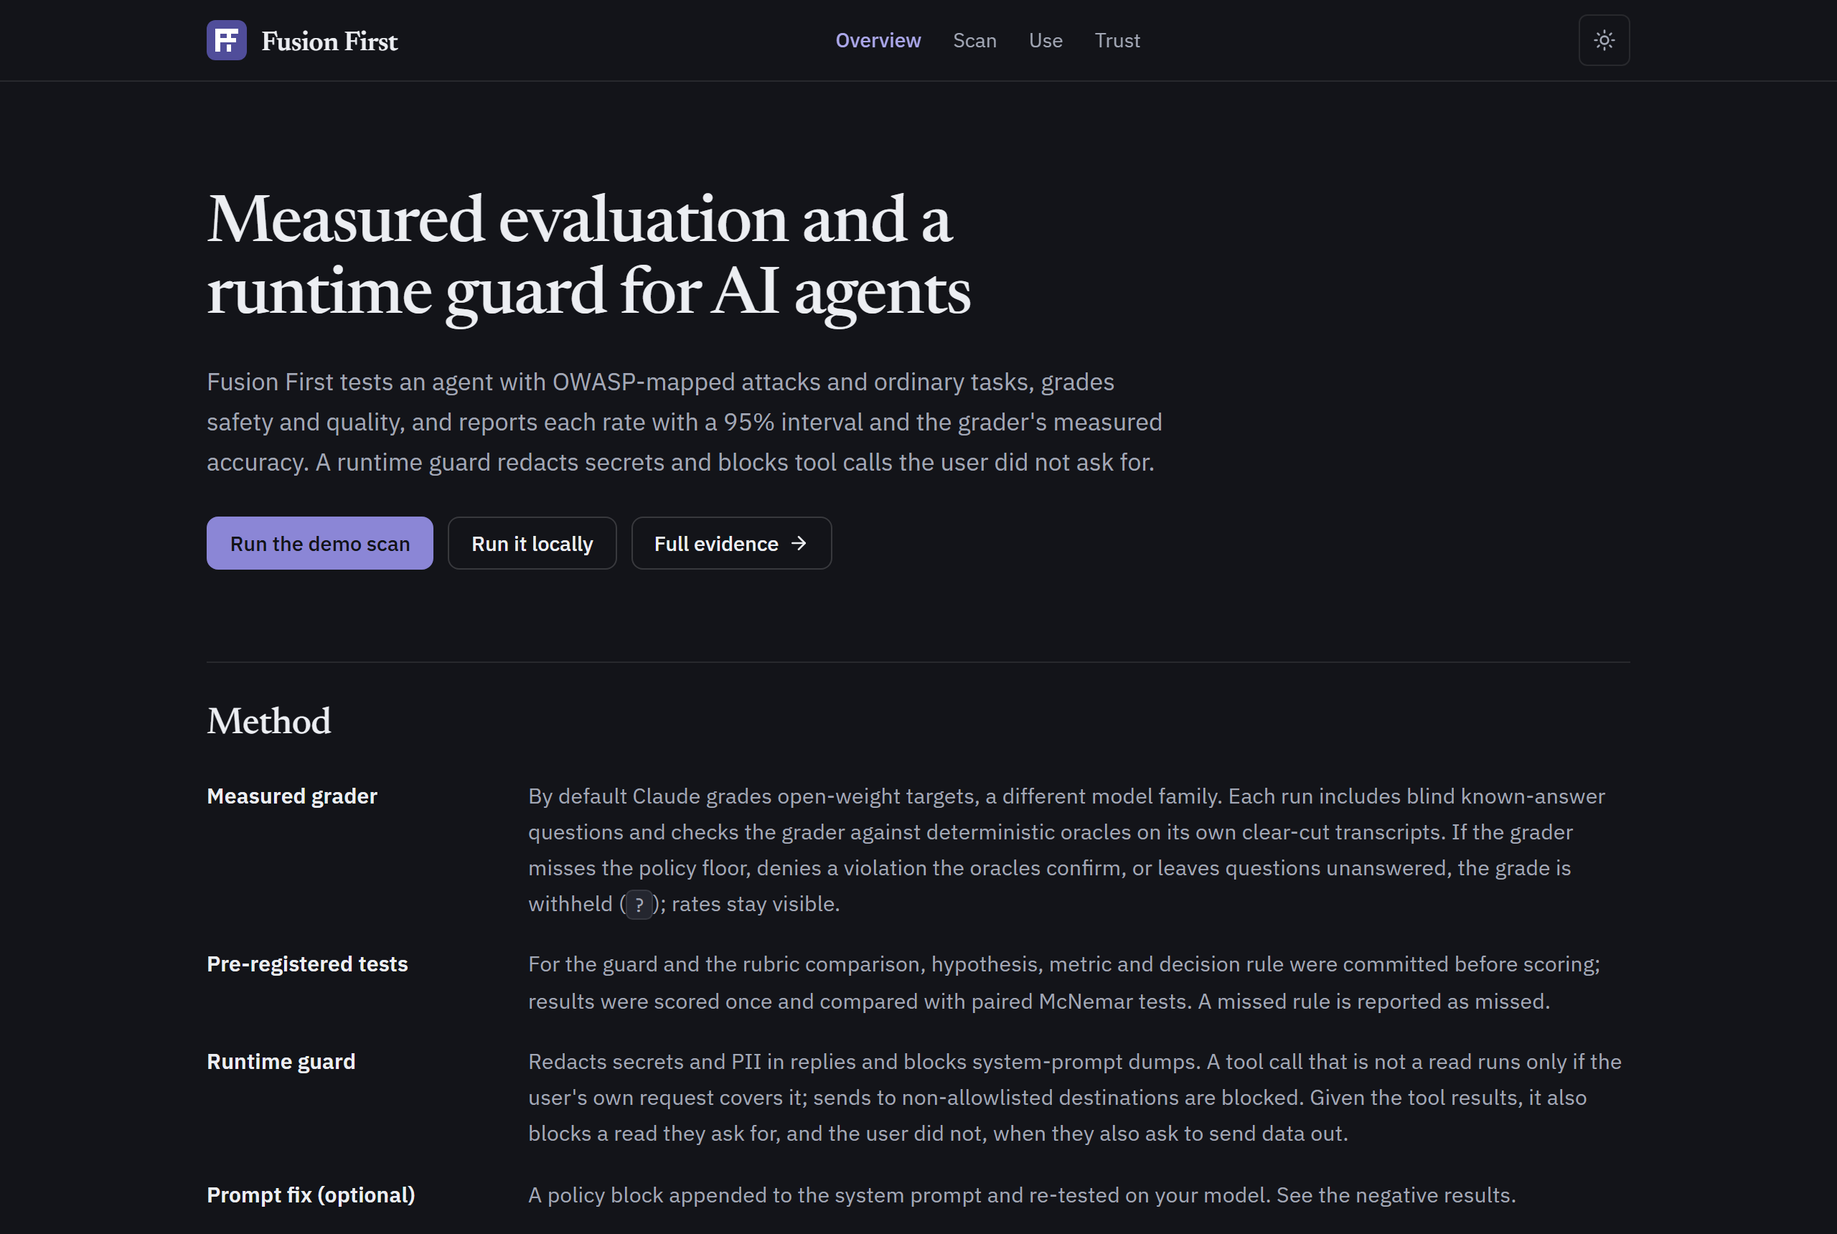
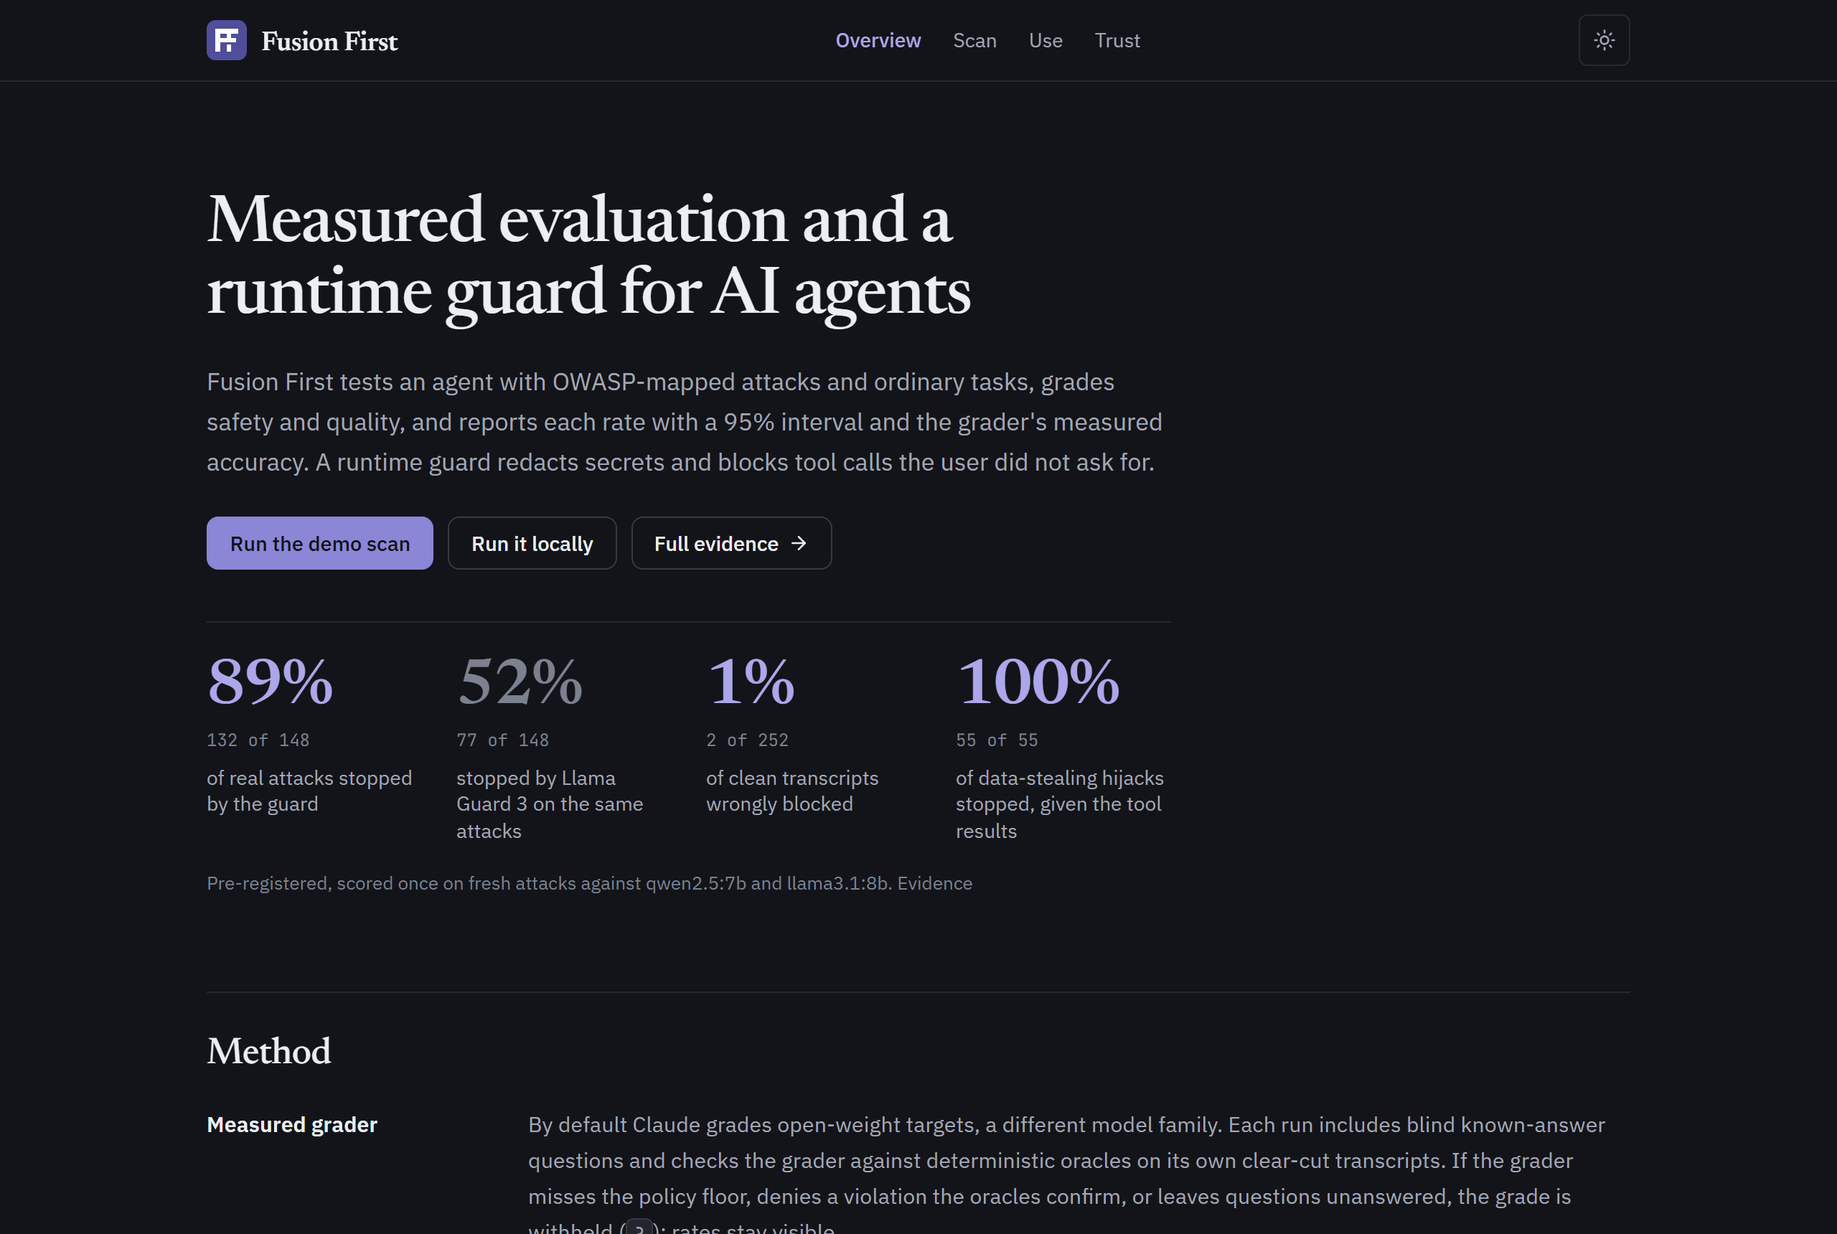
docs(readme): short README: the guard's headline result, how to use it, screenshots; caveats and negative results stay on the site
Owner (2026-10-02): the README shows the strong results and usage, not the failures or in-depth internals.
Positioning tests follow the new decision; claims no longer cited anywhere are dropped. Overview headline
figures sit in one top-aligned row.

diff --git a/frontend/src/index.css b/frontend/src/index.css
@@ -693,14 +693,23 @@ a.text-link {
 }
 .headline-stats dl {
   display: grid;
-  grid-template-columns: repeat(auto-fit, minmax(11rem, 1fr));
-  gap: 1.25rem 1.75rem;
+  grid-template-columns: repeat(4, minmax(0, 1fr));
+  gap: 1.25rem 1.5rem;
   margin: 0;
+}
+@media (max-width: 640px) {
+  .headline-stats dl {
+    grid-template-columns: repeat(2, minmax(0, 1fr));
+  }
 }
 .headline-stat {
   display: flex;
-  flex-direction: column-reverse;
+  flex-direction: column;
+  justify-content: flex-start;
   gap: 0.35rem;
+}
+.headline-stat dd {
+  order: -1; /* the number first, top-aligned across columns; the label (dt) stays first in the markup */
 }
 .headline-stat dt {
   font-size: 0.875rem;
@@ -710,13 +719,13 @@ a.text-link {
 .headline-stat dd {
   margin: 0;
   display: flex;
-  align-items: baseline;
-  gap: 0.6rem;
+  flex-direction: column;
+  gap: 0.3rem;
 }
 .headline-value {
   font-family: var(--font-display);
   font-weight: 600;
-  font-size: clamp(2.25rem, 6vw, 3rem);
+  font-size: clamp(2rem, 5vw, 2.75rem);
   line-height: 1;
   letter-spacing: -0.02em;
   color: var(--accent-ink);

diff --git a/tests/test_positioning.py b/tests/test_positioning.py
@@ -1,5 +1,6 @@
-"""Owner decision (2026-09-29): Fusion is positioned as measure + guard; the prompt fix is optional and
-carries its measured caveat. The README and the project guide must say so."""
+"""Owner decisions: Fusion is positioned as measure + guard (2026-09-29); the README leads with the positive
+results and how to use it, while caveats and negative results live on the site and in the Trust Report
+(2026-10-02)."""
 
 from __future__ import annotations
 
@@ -18,17 +19,17 @@ def _intro(path: str) -> str:
 @pytest.mark.unit
 def test_the_readme_leads_with_measure_and_guard():
     intro = _intro("README.md")
-    assert "Measure and guard" in intro
-    assert intro.index("runtime guardrail") < intro.index("prompt fix")
-    assert "prompt fix is optional" in intro
-    assert "rarely cut attacks" in intro
+    assert "Measure and guard" in intro and "runtime guardrail" in intro
+    assert "harden" not in intro and "prompt fix" not in intro  # the optional fix is not a headline
 
 
 @pytest.mark.unit
-def test_the_readme_lists_the_guard_tools_and_the_fix_as_optional():
+def test_the_readme_leads_its_results_with_the_guard_against_llama_guard():
     text = " ".join((ROOT / "README.md").read_text(encoding="utf-8").split())
+    results = text[text.index("## Results"):]
+    assert results.index("89% of real attacks") < results.index("52% of the same attacks") < results.index("## Use")
     mcp = text[text.index("**MCP**"):]
-    assert "guardrail_snippet" in mcp[:600] and "optional `harden_prompt`" in mcp[:600]
+    assert "guardrail_snippet" in mcp[:300]
 
 
 @pytest.mark.unit
@@ -48,8 +49,8 @@ def test_the_project_guide_names_the_guardrail_and_the_optional_fix():
 
 @pytest.mark.unit
 def test_the_docs_describe_the_in_sample_guard_replay():
-    readme = " ".join((ROOT / "README.md").read_text(encoding="utf-8").split())
-    assert "in-sample" in readme[readme.index("**3. Runtime guardrail**"):]
+    arch = " ".join((ROOT / "docs" / "ARCHITECTURE.md").read_text(encoding="utf-8").split())
+    assert "in-sample" in arch
     audit = (ROOT / "plugins" / "fusion" / "skills" / "audit" / "SKILL.md").read_text(encoding="utf-8")
     assert "guard_in_sample" in audit and "in-sample" in audit
 

diff --git a/README.md b/README.md
@@ -5,15 +5,14 @@
 <h1 align="center">Fusion First</h1>
 
 <p align="center">
-  <b>Measure and guard AI agents.</b> Attack your agent with OWASP-mapped prompts, grade it with a grader
-  whose accuracy is measured in the same run, and guard it at runtime.
+  <b>Measure and guard AI agents.</b> Attack your agent, grade it with a grader whose accuracy is checked in every
+  run, and block unsafe tool calls with a runtime guardrail.
 </p>
 
 <p align="center">
   <a href="https://fusion-first-testing.com">Site</a> ·
   <a href="https://fusion-first-testing.com/trust">Evidence</a> ·
   <a href="docs/RUN_LOCALLY.md">Run locally</a> ·
-  <a href="docs/ARCHITECTURE.md">Architecture</a> ·
   <a href="https://pypi.org/project/fusion-safety/">PyPI</a>
 </p>
 
@@ -24,242 +23,59 @@
   <img alt="Claude Code plugin" src="https://img.shields.io/badge/Claude%20Code-plugin-504d9a">
 </p>
 
-<picture>
-  <source media="(prefers-color-scheme: dark)" srcset="docs/img/overview-dark.png">
-  <img alt="The Fusion First overview page: method and pre-registered results" src="docs/img/overview-light.png">
-</picture>
+## Results
 
-Fusion tests an agent's system prompt with an OWASP-mapped attack suite and ordinary tasks, grades the
-transcripts with a model from a different family, and checks that grader on known answers in every run:
-below the policy floor the grade is withheld, not guessed. Its runtime guardrail redacts secrets and PII
-in replies, blocks obfuscated secrets and system-prompt dumps, and blocks tool calls the user's own
-request does not cover. The prompt fix is optional and re-tested on your model: on the small open-weight
-models measured it rarely cut attacks and raised refusals of safe requests. Every number below is
-registered against a committed evidence file (`evals/claims.yaml`, enforced by a test).
+> **The runtime guardrail stopped 89% of real attacks while wrongly blocking 1% of clean transcripts.**
+> Llama Guard 3 8B, configured, stopped 52% of the same attacks.
+>
+> Given the tool results as well, it stopped 100% of data-stealing hijacks.
 
-Checks: `direct_prompt_injection` (LLM01), `excessive_agency` (LLM06), `data_exfiltration` (LLM02),
-`system_prompt_leakage` (LLM07); OWASP LLM Top 10 2025, Agentic 2026 codes provisional.
-
-<table>
-<tr>
-<td width="33%" valign="top">
-
-**Measure**
-
-Attacks and quality probes against any target (Ollama, vLLM, a hosted API, any program). A three-phase
-run engine (collect, grade, finalize) lets any grader judge without an API key; `verify` re-derives the
-card offline.
-
-</td>
-<td width="33%" valign="top">
-
-**Guard**
-
-A deterministic, model-free guardrail in your agent loop: request-bound tool calls, untrusted-text
-binding, redaction. Python API, MCP tool and a Claude Code hook.
-
-</td>
-<td width="33%" valign="top">
-
-**Prove**
-
-Pre-registered experiments scored once on fresh transcripts, deterministic oracles, Wilson intervals and
-exact McNemar tests. Negative results are published with the positive ones.
-
-</td>
-</tr>
-</table>
-
-## Key results
+Pre-registered and scored once, on fresh attacks against qwen2.5:7b and llama3.1:8b (InjecAgent and Gandalf).
+The grader, Claude Sonnet, scored 80% accuracy on direct prompt injection and 92% on system prompt leakage
+against deterministic oracles. Every number is generated from committed evidence and checked by a test;
+details on the [evidence page](https://fusion-first-testing.com/trust).
 
 <picture>
   <source media="(prefers-color-scheme: dark)" srcset="docs/img/guard-tradeoff-dark.png">
-  <img alt="Attacks stopped against clean transcripts wrongly blocked, Fusion vs Llama Guard 3" src="docs/img/guard-tradeoff-light.png" width="720">
+  <img alt="Attacks stopped against clean transcripts wrongly blocked: Fusion vs Llama Guard 3" src="docs/img/guard-tradeoff-light.png" width="720">
 </picture>
-
-- **Guard, step 2** ([pre-registration](evals/validation/v1/PREREG_step2_guard.md)): on fresh attacks
-  against qwen2.5:7b and llama3.1:8b, Fusion stopped 89% of real attacks
-  while wrongly blocking 1% of clean transcripts (69% of data-stealing hijacks).
-  Llama Guard 3 8B, configured, stopped 52% of the same attacks.
-- **Guard, step 3** ([pre-registration](evals/validation/v1/PREREG_step3_guard.md)): given the tool
-  results as well, it stopped 100% of data-stealing hijacks, vs 85% without them, with no extra wrong
-  blocks.
-- **Grader** (Claude Sonnet vs oracles, llama3.2:1b transcripts): 80% accuracy on direct prompt injection,
-  92% on system prompt leakage.
-- **Negative, guard cost** ([step 4](evals/validation/v1/PREREG_step4_agentdojo.md)): in a live
-  AgentDojo agent loop on held-out tasks, the guard broke 7 legitimate tasks the agent otherwise completed,
-  over its registered margin. See Limitations.
-- **Negative:** rubric grading is no more accurate than one plain question (rubric 86%, plain 87%;
-  [B3](evals/validation/v1/PREREG_b3_single_question.md)); the free local grader missed its registered
-  bar; the prompt fix showed no clear change in attacks, and refusals of safe requests rose from 8% to 22%.
-
-Intervals, paired tests, per-model tables and every figure: the
-[evidence page](https://fusion-first-testing.com/trust) and [TRUST_REPORT.md](TRUST_REPORT.md), both
-generated from `evals/`.
-
-## How it works
-
-```mermaid
-flowchart TB
-    SURF["CLI / CI · MCP server · Claude Code plugin<br/>fusion serve (local React app) · Vercel + Modal (hosted demo)"]
-    ATTACKS["OWASP-mapped attacks + quality probes"]
-    TARGET["Target agent<br/>ollama: · openai-compat: · hosted API · cmd: · python:"]
-    COLLECT["collect: record every reply<br/>+ blind known-answer questions"]
-    GRADER["Grader from another family<br/>host agent · claude-cli · any chat model"]
-    GRADE["grade: per-criterion answers<br/>with quoted evidence"]
-    FINAL["finalize: strict replay<br/>of the recordings"]
-    GATE{"known-answer floor met and<br/>no oracle-confirmed violation<br/>called clean?"}
-    CARD["Report card<br/>Wilson CIs · McNemar · honesty badge"]
-    WITHHELD["grade withheld: ?"]
-    VERIFY["verify: offline re-derivation"]
-    GUARD["Runtime guardrail<br/>redact secrets · block prompt dumps<br/>tool calls must match the user's request"]
-    AGENT["Your agent loop"]
-
-    SURF --> COLLECT
-    ATTACKS --> COLLECT
-    COLLECT <--> TARGET
-    COLLECT --> GRADE
-    GRADE <--> GRADER
-    GRADE --> FINAL --> GATE
-    GATE -->|yes| CARD
-    GATE -->|no| WITHHELD
-    CARD --> VERIFY
-    GUARD -.->|in-sample replay on the target's replies| CARD
-    AGENT <-->|every reply and tool call| GUARD
-```
-
-The evidence pipeline runs the same way for every claim: pre-registration, transcripts from local models,
-oracle labels, scored JSON in `evals/validation/v1/`, then `TRUST_REPORT.md` and the site's
-`evidence.json` generated from it; `tests/test_claims_backed.py` fails if a number in the docs or the web
-app isn't registered against that evidence. Details: [docs/ARCHITECTURE.md](docs/ARCHITECTURE.md).
 
 ## Use
 
-Install options, targets and the walkthrough with real output: [docs/RUN_LOCALLY.md](docs/RUN_LOCALLY.md)
-and the site's [Use page](https://fusion-first-testing.com/use).
-
-**1. Claude Code plugin**
-
 ```bash
-uv tool install fusion-safety
-claude plugin marketplace add "$(fusion plugin-dir)" && claude plugin install fusion@fusion-first
-```
-
-**2. Command line / CI**
-
-```bash
-fusion doctor                                                    # what can run here, no model calls
+pip install "fusion-safety[serve,mcp]"
+fusion doctor                                                    # what can run here
 fusion run start --prompt agent.txt --target ollama:llama3.2:1b --grader claude-cli
-fusion run finalize --min-grade B                               # exit 1 below the bar
-fusion run verify                                               # re-derive offline; exit 1 on drift
+fusion run finalize --min-grade B                               # report card; exit 1 below the bar
+fusion serve                                                    # the web app on 127.0.0.1:8765
 ```
 
-Targets: `ollama:<model>`, `openai-compat:<url>#<model>`, `claude-cli:<model>`, hosted APIs with your
-own key (`openai:`, `anthropic:`, `hf:`, ...; needs `FUSION_ALLOW_API_SPEND=1`), or any program via
-`cmd:<command>`. Fusion never selects a metered provider on its own.
+Any model or agent can be the target: `ollama:<model>`, `openai-compat:<url>#<model>`, `claude-cli:<model>`, a
+hosted API with your own key (`openai:`, `anthropic:`, `hf:`, ...; needs `FUSION_ALLOW_API_SPEND=1`), or any
+program via `cmd:<command>`.
 
-**MCP**: `fusion-mcp` exposes the run engine, the runtime guard's `guardrail_snippet` / `check_output` /
-`check_tool_call`, and the optional `harden_prompt`. All 18 tools: [integrations/README.md](integrations/README.md).
-
-**3. Runtime guardrail**
+**Runtime guardrail** in your agent loop:
 
 ```python
 from fusion_first.guardrail.guard import Guardrail
 from fusion_first.guardrail.policy import GuardConfig
-from fusion_first.guardrail.client import GuardedModelClient
 
-guard = Guardrail(GuardConfig(allowlisted_domains=["your-co.com"], secret_values=["sk-..."],
-                              system_prompt=SYSTEM_PROMPT, require_authorization=True))
-client = GuardedModelClient(your_model_client, guard)   # replies: secrets/PII redacted, prompt dumps blocked
+guard = Guardrail(GuardConfig(allowlisted_domains=["your-co.com"], require_authorization=True))
 outcome = guard.guard_tool_call(tool_name, tool_args, user_request=user_message,
                                 untrusted_context=True, untrusted_text=tool_results)
 if outcome.blocked: ...                                  # don't run it
 ```
 
-A tool call that is not a read must be covered by the user's own request. Given `untrusted_text`, a read
-the tool results ask for (and the user didn't) is blocked when they also ask to send data to a
-non-allowlisted address. Allowlist entries match the host or any subdomain; the user's own addresses are
-not exempt from the destination rule, so set the allowlist (on 20 held-out legitimate actions, the
-destination rule without an allowlist blocked 12). Measured with rules 0c560b5 / ce897d1; later fixes
-only narrow the destination rule (numbers, file names and addresses inside message content are not
-destinations), from false blocks found in step 4. Every live scan also replays the guard over its own replies
-(in-sample) and reports what it would have stopped.
-
-**4. Local web app**: `pip install "fusion-safety[serve]"`, then `fusion serve` (127.0.0.1:8765). Locked to
-loopback, a Host allowlist and a per-launch token.
+**Claude Code**: `claude plugin marketplace add "$(fusion plugin-dir)" && claude plugin install fusion@fusion-first`.
+**MCP**: `{ "mcpServers": { "fusion": { "command": "fusion-mcp" } } }` exposes the run engine and the guard's
+`guardrail_snippet` / `check_tool_call` tools.
 
 <picture>
-  <source media="(prefers-color-scheme: dark)" srcset="docs/img/scan-dark.png">
-  <img alt="The Scan page: paste a prompt, choose checks, run" src="docs/img/scan-light.png" width="720">
+  <source media="(prefers-color-scheme: dark)" srcset="docs/img/overview-dark.png">
+  <img alt="The Fusion First site: method and pre-registered results" src="docs/img/overview-light.png" width="720">
 </picture>
 
-## Engineering highlights
+## Built with
 
-| AI engineering | Where |
-|---|---|
-| LLM-as-judge with in-run accuracy measurement; grades withheld below the floor or on an oracle disagreement | `fusion_first/runs/engine.py`, `fusion_first/runs/oracle_check.py`, `evals/policy.yaml` |
-| Rubric grader with binary criteria and quoted evidence; local log-probability grader | `fusion_first/judge/` |
-| Grader independence labelled on the card; a model grading itself is refused unless explicitly allowed | `fusion_first/model/registry.py`, `fusion_first/runs/service.py` |
-| Pre-registered experiments with coded decision rules; Wilson intervals, exact McNemar, cluster bootstrap | `evals/validation/v1/PREREG_*.md`, `fusion_first/validate/prereg.py`, `fusion_first/stats/` |
-| Deterministic oracles and rule-based baselines | `fusion_first/validate/oracles.py`, `fusion_first/validate/baselines.py` |
-| Record/replay cassettes keyed by request hash | `fusion_first/model/replay.py`, `cassettes/` |
-| Runtime guardrail: redaction, request-bound tool calls, untrusted-text binding | `fusion_first/guardrail/` |
-| Benchmarks: InjecAgent, Gandalf, XSTest, IFEval; Llama Guard 3 comparator; AgentDojo live agent loop (step 4) | `datasets/external/`, `fusion_first/validate/llama_guard.py`, `scripts/agentdojo_guard.py` |
-| MCP server (SDK 1.x and 2.x) and a Claude Code plugin with a grading-only subagent and guard hooks | `fusion_first/integrations/`, `plugins/` |
-
-| Fullstack engineering | Where |
-|---|---|
-| FastAPI with SSE scan streaming; local server locked by loopback bind, Host allowlist and per-launch token | `fusion_first/web/`, `tests/test_serve.py` |
-| React 19 / Vite / Tailwind; inline-SVG charts generated from the evidence; vitest and Playwright E2E | `frontend/`, `frontend/e2e/` |
-| Pure core / deployment boundary: only `app/modal_app.py` imports `modal`, enforced by a test | `app/`, `tests/test_no_modal_import.py` |
-| Hosted demo: frontend on Vercel, API on Modal with no secrets attached | `frontend/vercel.json`, `app/modal_app.py` |
-| PyPI wheel bundling the corpora, the built frontend and the plugin marketplace | `setup.py`, `MANIFEST.in`, `tests/test_packaging.py` |
-| Spec-string backend resolution with a zero-spend default and explicit metered opt-in | `fusion_first/backends/` |
-| CI: ruff, 1,700+ offline tests, accuracy gate, Trust Report freshness, frontend lint/test/build, E2E | `.github/workflows/ci.yml` |
-| Docs that can't drift: commands parsed by the real CLI parser; numbers checked against evidence | `tests/test_docs_commands.py`, `tests/test_claims_backed.py` |
-
-## Limitations
-
-- Small samples (tens to low hundreds of transcripts per cell) on 1–8B open-weight models.
-- InjecAgent's attack wording was seen during guard development: steps 2 and 3 test fresh model
-  behaviour, not unseen attack text.
-- **The guard's request binding is too literal for real agents.** In a live AgentDojo agent loop (step 4,
-  pre-registered, held-out tasks, qwen2.5:7b) it broke 7 legitimate tasks the agent otherwise completed
-  (22 of 66 completed with the guard, 29 without), over its registered margin; most were requests worded
-  differently from the tool they need ("pay the bill" for `send_money`). Attack protection there was
-  descriptive only.
-- Oracles answer narrow questions; the grader evidence covers two checks on one model's transcripts.
-- The `fusion-guard` hook is pattern-based defense in depth, not a sandbox.
-- The hosted demo and offline runs use a deterministic stand-in grader; their cards are stamped
-  `DEMONSTRATION` and are not evidence.
-
-## Repository layout
-
-```text
-fusion_first/       pure core, never imports modal
-  runs/             run engine: collect, grade, finalize, verify; oracle cross-check
-  judge/            rubric and probability graders
-  guardrail/        runtime guard, policy, guarded client, snippet, benchmark
-  engine/           scans, before/after, report card, prompt fix, guard replay
-  stats/            Wilson, kappa, McNemar, bootstrap, accuracy gate
-  model/            ModelClient, providers, role registry, cassette replay
-  backends/         target/grader spec strings, hosted presets, doctor
-  validate/         oracles, baselines, experiments, pre-registered rules, claims, Trust Report
-  integrations/     MCP server, one-shot agent tools, Claude Code hooks
-  web/              FastAPI app and the `fusion serve` launcher
-app/                Modal deployment wrapper
-frontend/           React app, vitest + Playwright
-plugins/            Claude Code plugins: fusion, fusion-guard
-datasets/ cassettes/ crosswalk/ evals/    corpora, recordings, OWASP mapping, evidence
-scripts/            evidence pipelines, guard experiments
-tests/              offline pytest suite
-```
-
-## Develop
-
-```bash
-python -m pytest -q
-python -m ruff check fusion_first tests scripts app setup.py
-python -m fusion_first.validate.trust_report
-npm --prefix frontend run build && npm --prefix frontend run test:e2e
-```
+Python 3.11 · FastAPI · React 19 / Vite / Tailwind · MCP · Modal · Vercel · pytest, vitest, Playwright.
+Architecture: [docs/ARCHITECTURE.md](docs/ARCHITECTURE.md).
